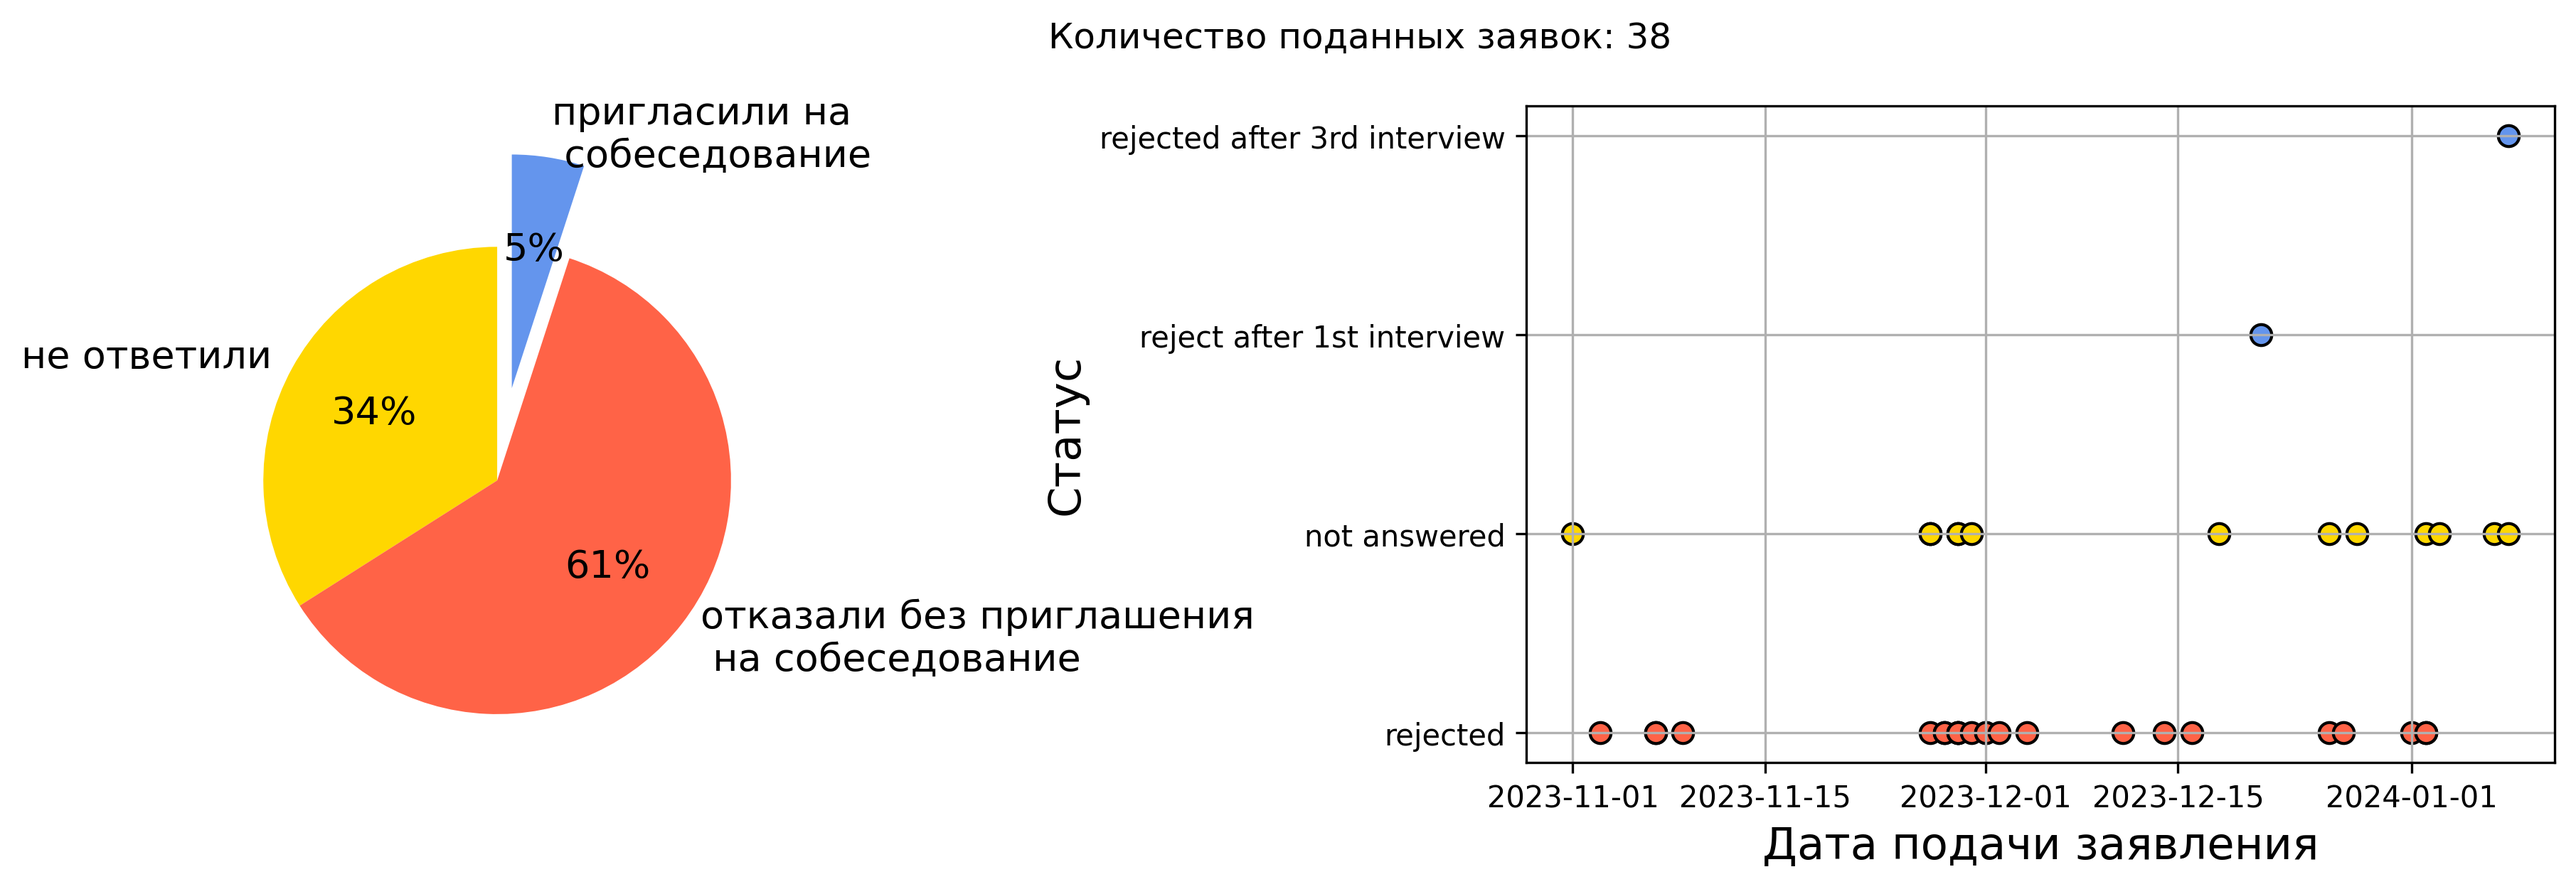
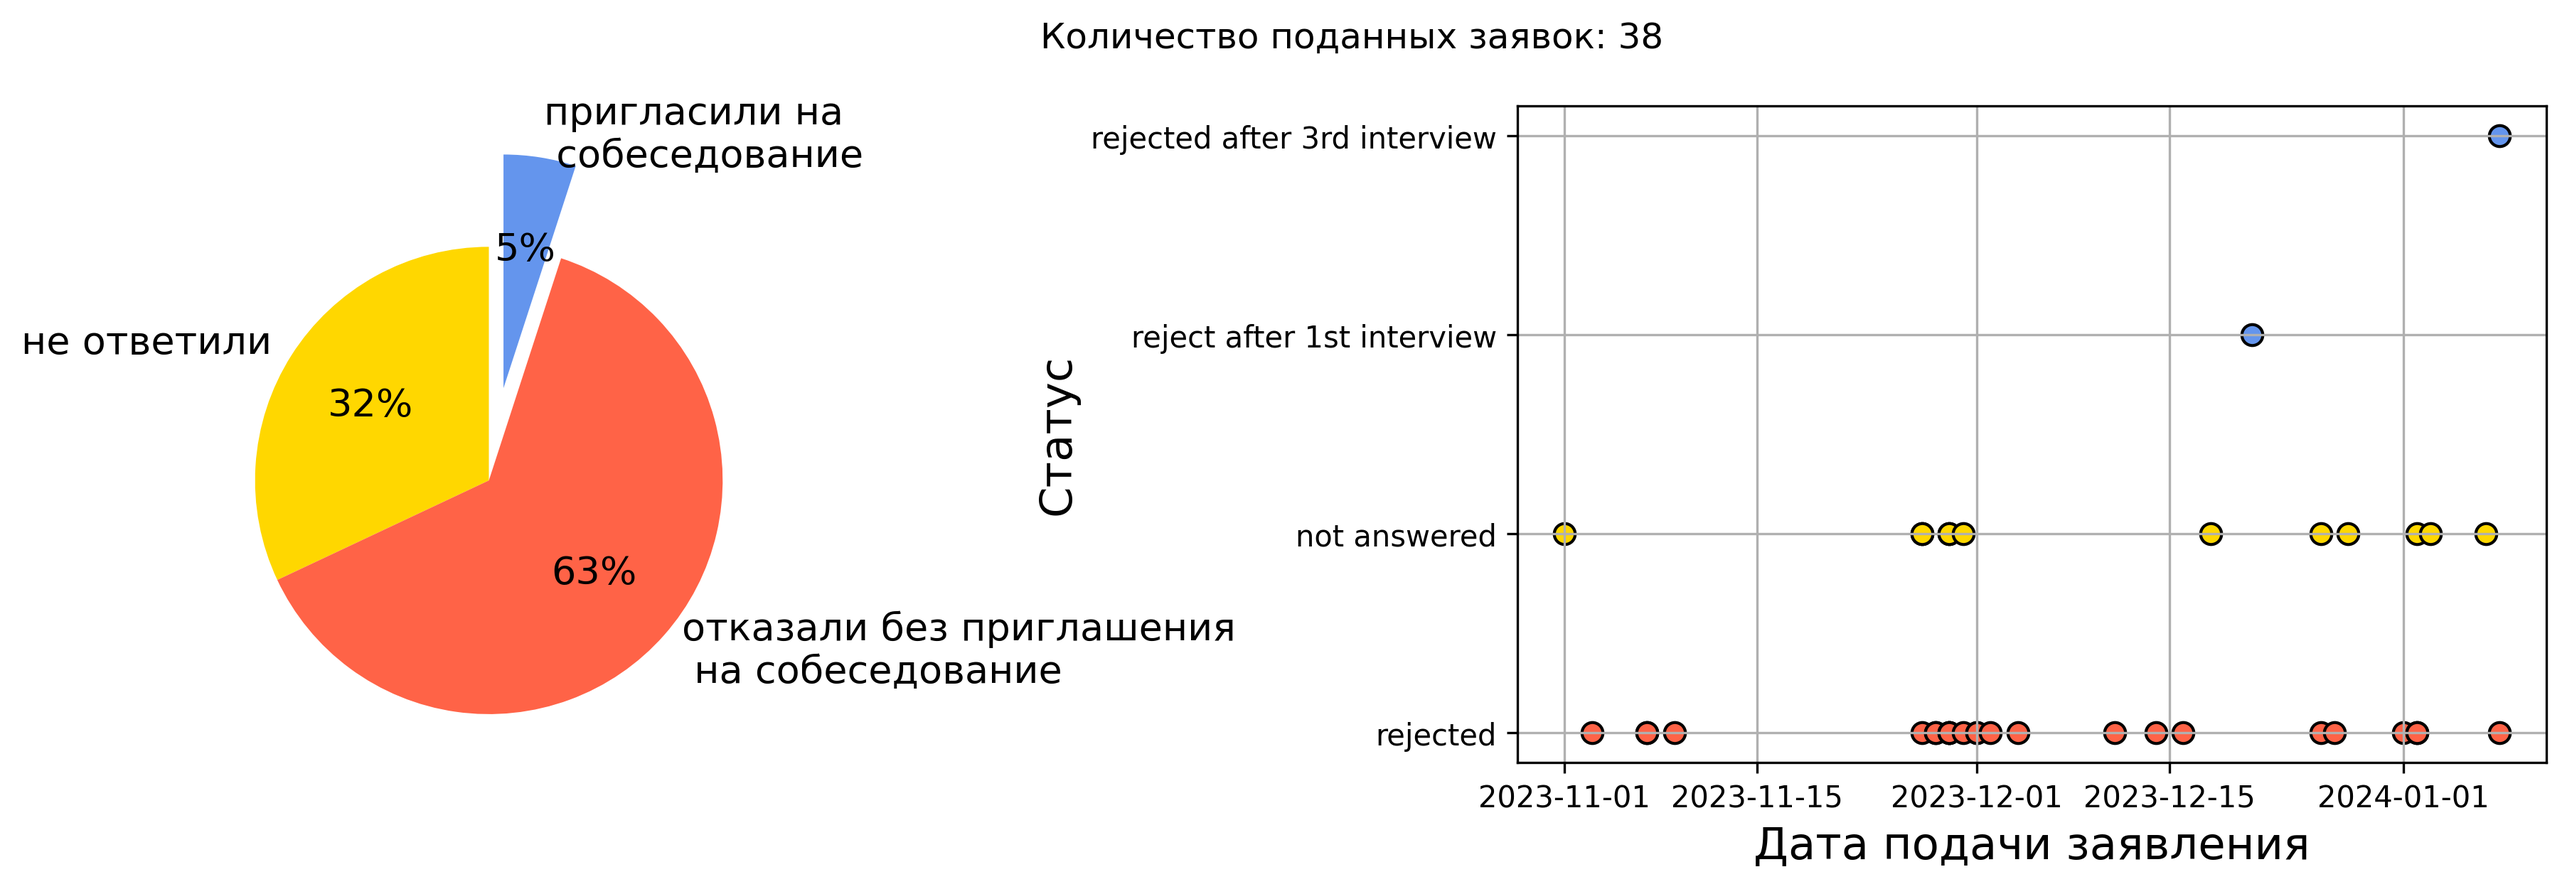
update after letter

diff --git a/statistics/finland_2024_rus.py b/statistics/finland_2024_rus.py
@@ -32,7 +32,7 @@ def calculate_statistics():
 
     # Prepare visualization
     labels = ['не ответили', 'отказали без приглашения\n на собеседование', 'пригласили на\n собеседование']
-    sizes = [34, 61, 5]
+    sizes = [32, 63, 5]
     explode = (0, 0.0, 0.2)
 
     fig_size = (14.0, 4.0)

diff --git a/statistics/finland_2024_eng.py b/statistics/finland_2024_eng.py
@@ -32,7 +32,7 @@ def calculate_statistics():
 
     # Prepare visualization
     labels = ['not\n answered', 'rejected before\n interview', 'got interview']
-    sizes = [34, 61, 5]
+    sizes = [32, 63, 5]
     explode = (0, 0.0, 0.2)
 
     fig_size = (14.0, 4.0)
